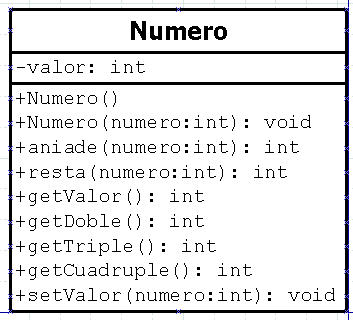
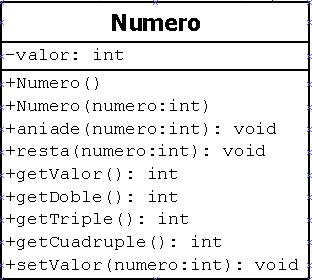
AEF Clases con pruebas

diff --git a/Prog/AEF Clases/AEF Clases/src/Prueba.java b/Prog/AEF Clases/AEF Clases/src/Prueba.java
@@ -1,0 +1,61 @@
+/*
+ * To change this template, choose Tools | Templates
+ * and open the template in the editor.
+ */
+
+/**
+ *
+ * @author Administrador
+ */
+public class Prueba {
+    public static void main(String[] args){
+        Numero numeroPrueba;
+        Consumo consumoPrueba;
+        Finanzas finanzasPrueba;
+        
+        //Prueba de Numero:
+        /*
+        numeroPrueba = new Numero(10);
+        
+        System.out.println(numeroPrueba.getValor());
+        numeroPrueba.aniade(5);
+        System.out.println(numeroPrueba.getValor());
+        numeroPrueba.resta(10);
+        System.out.println(numeroPrueba.getValor());
+        numeroPrueba.setValor(10);
+        System.out.println(numeroPrueba.getValor());
+        
+        System.out.println(numeroPrueba.getDoble());
+        System.out.println(numeroPrueba.getTriple());
+        System.out.println(numeroPrueba.getCuadruple());
+        
+        
+        //Prueba de Consumo
+        consumoPrueba = new Consumo(200f,20f,100f);
+        
+        //Ver como empezamos
+        System.out.println(""+consumoPrueba.getTiempo()+" Horas");
+        System.out.println("" + consumoPrueba.consumoMedio()+"L/100Km");
+        System.out.println(""+consumoPrueba.consumoEuros()+"Eur");
+        
+        //Cambiar precio
+        consumoPrueba.setPrecio(3f);
+        System.out.println("3Eur/L en total: "+consumoPrueba.consumoEuros()+"Eur");
+        
+        //Cambiar datos del viaje
+        consumoPrueba.setKms(100f);
+        consumoPrueba.setLitros(5.5f);
+        consumoPrueba.setVmed(10f);
+        consumoPrueba.setPrecio(2f);
+        System.out.println(""+consumoPrueba.getTiempo()+" Horas");
+        System.out.println("" + consumoPrueba.consumoMedio()+"L/100Km");
+        System.out.println(""+consumoPrueba.consumoEuros()+"Eur");
+        */
+        //Prueba Finanzas
+        finanzasPrueba = new Finanzas(1.5);
+        
+        System.out.println(finanzasPrueba.dolaresToEuros(10));
+        System.out.println(finanzasPrueba.eurosToDolares(15));
+        
+    }
+}

diff --git a/Prog/AEF Clases/AEF Clases/src/Finanzas.java b/Prog/AEF Clases/AEF Clases/src/Finanzas.java
@@ -17,10 +17,10 @@ public class Finanzas {
     public Finanzas(double valorEur){
         this.importeCambio = valorEur;
     }
-    public double dolaresToEuros(double dolares){
-        return dolares * this.importeCambio;
+    public double dolaresToEuros(double euros){
+        return euros * this.importeCambio;
     }
-    public double eurosToDolares(double euros){
-        return euros * 1/this.importeCambio;
+    public double eurosToDolares(double dolares){
+        return dolares * 1/this.importeCambio;
     }
 }

diff --git a/Prog/AEF Clases/AEF Clases/src/Numero.java b/Prog/AEF Clases/AEF Clases/src/Numero.java
@@ -17,11 +17,11 @@ public class Numero {
     public Numero(int numero){
         this.valor = numero;
     }    
-    public int aniade(int numero){
-        return this.valor + numero;
+    public void aniade(int numero){
+        this.valor += numero;
     }
-    public int resta(int numero){
-        return this.valor - numero;
+    public void resta(int numero){
+         this.valor -= numero;
     }    
     public int getValor(){
         return this.valor;

diff --git a/Prog/AEF Clases/AEF Clases/src/Consumo.java b/Prog/AEF Clases/AEF Clases/src/Consumo.java
@@ -34,7 +34,7 @@ public class Consumo {
         return kms / vmed;
     }
     public float consumoMedio(){
-        return litros *(100/kms);
+        return litros *100/kms;
     }
     public float consumoEuros(){
         return litros * precio;
